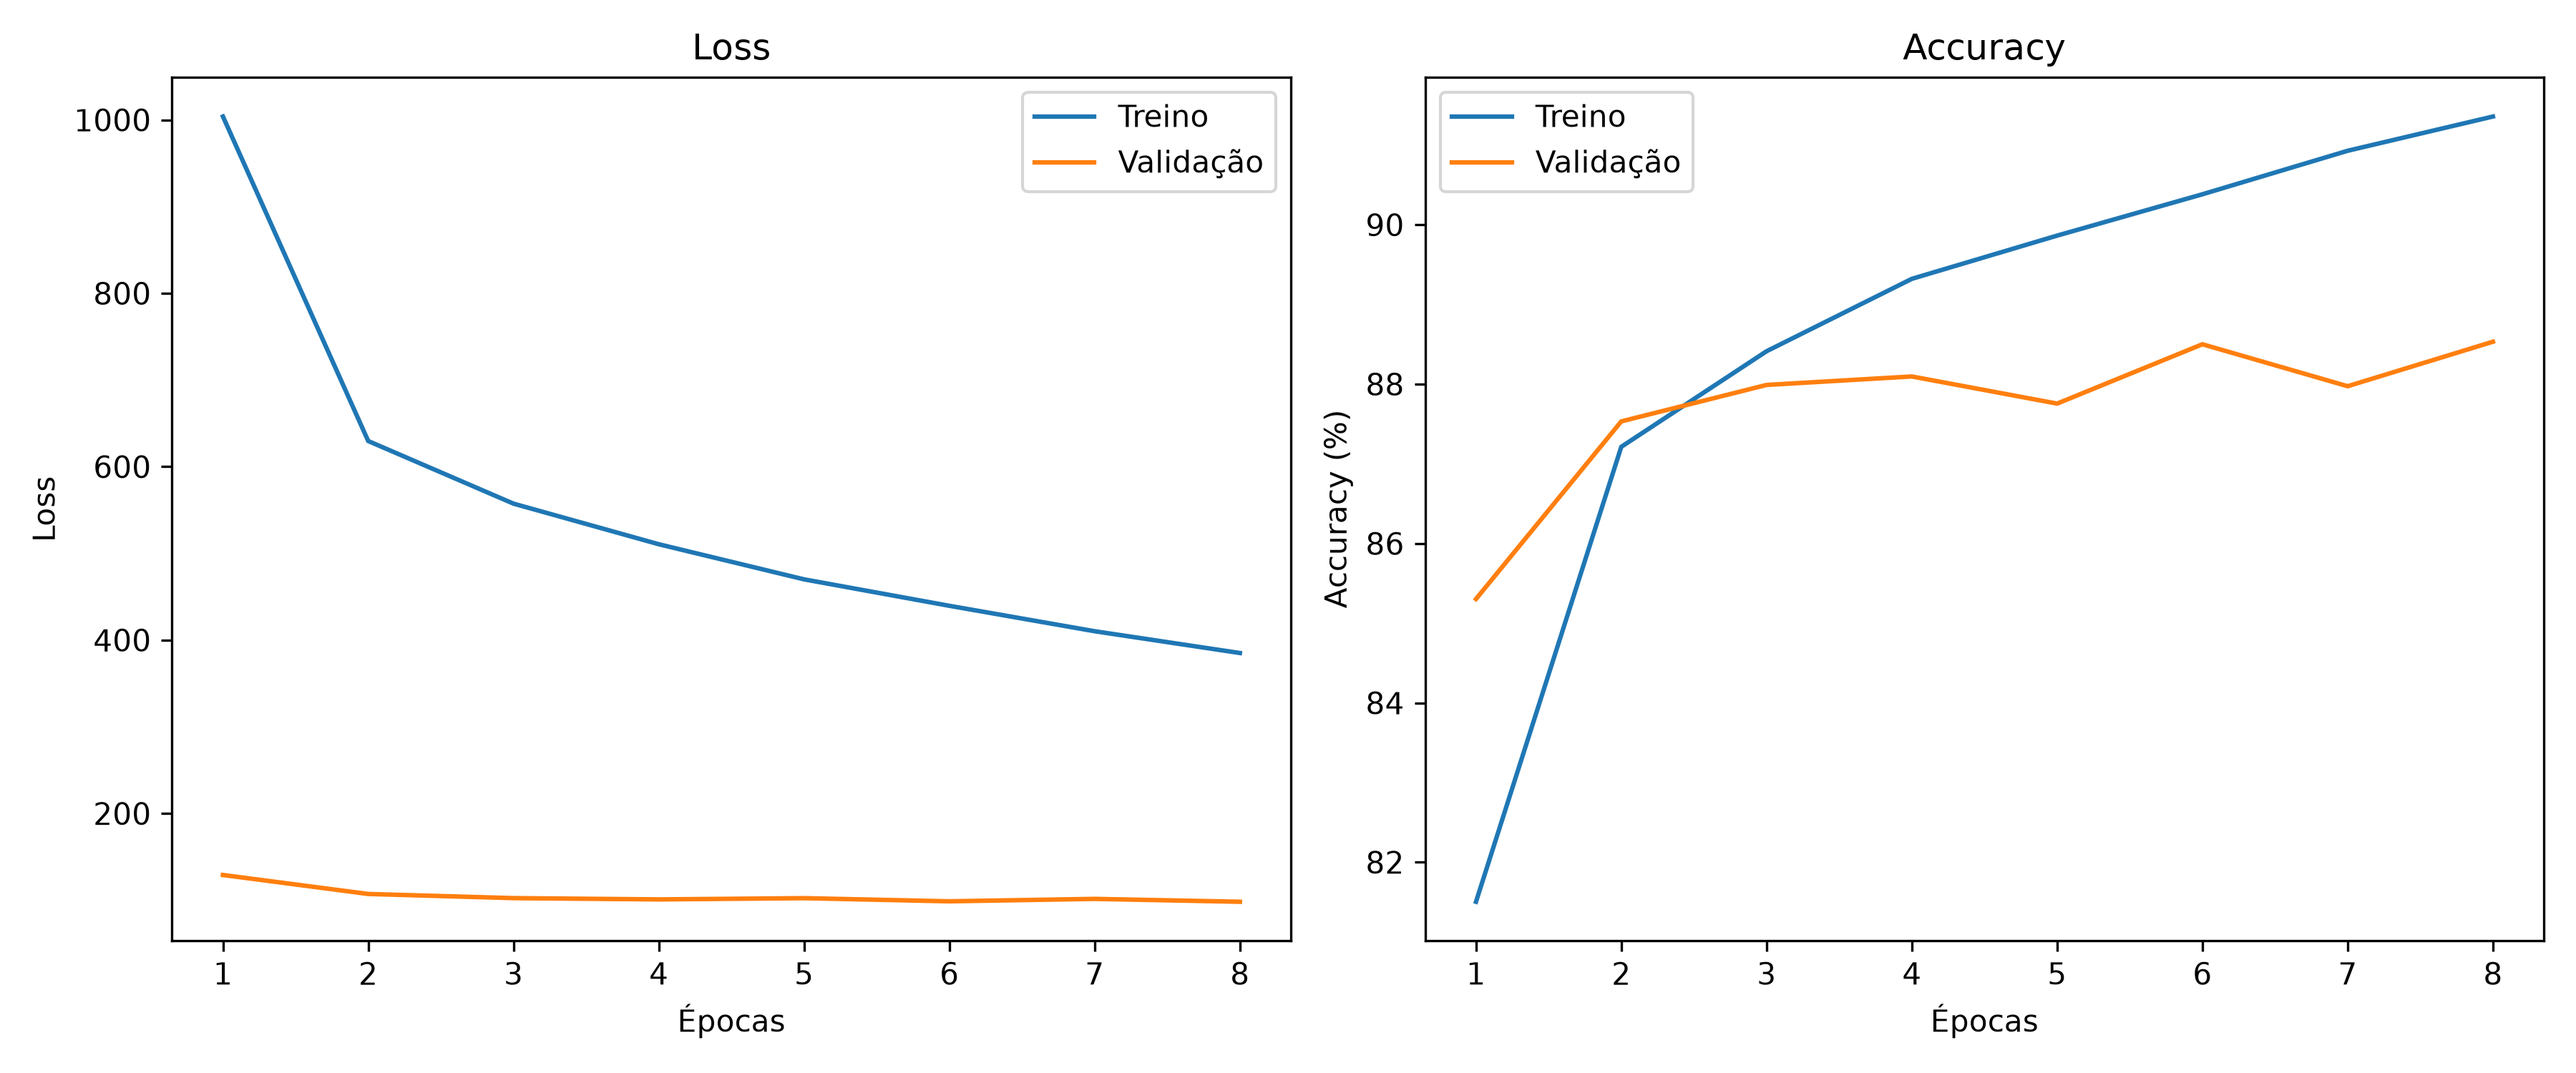
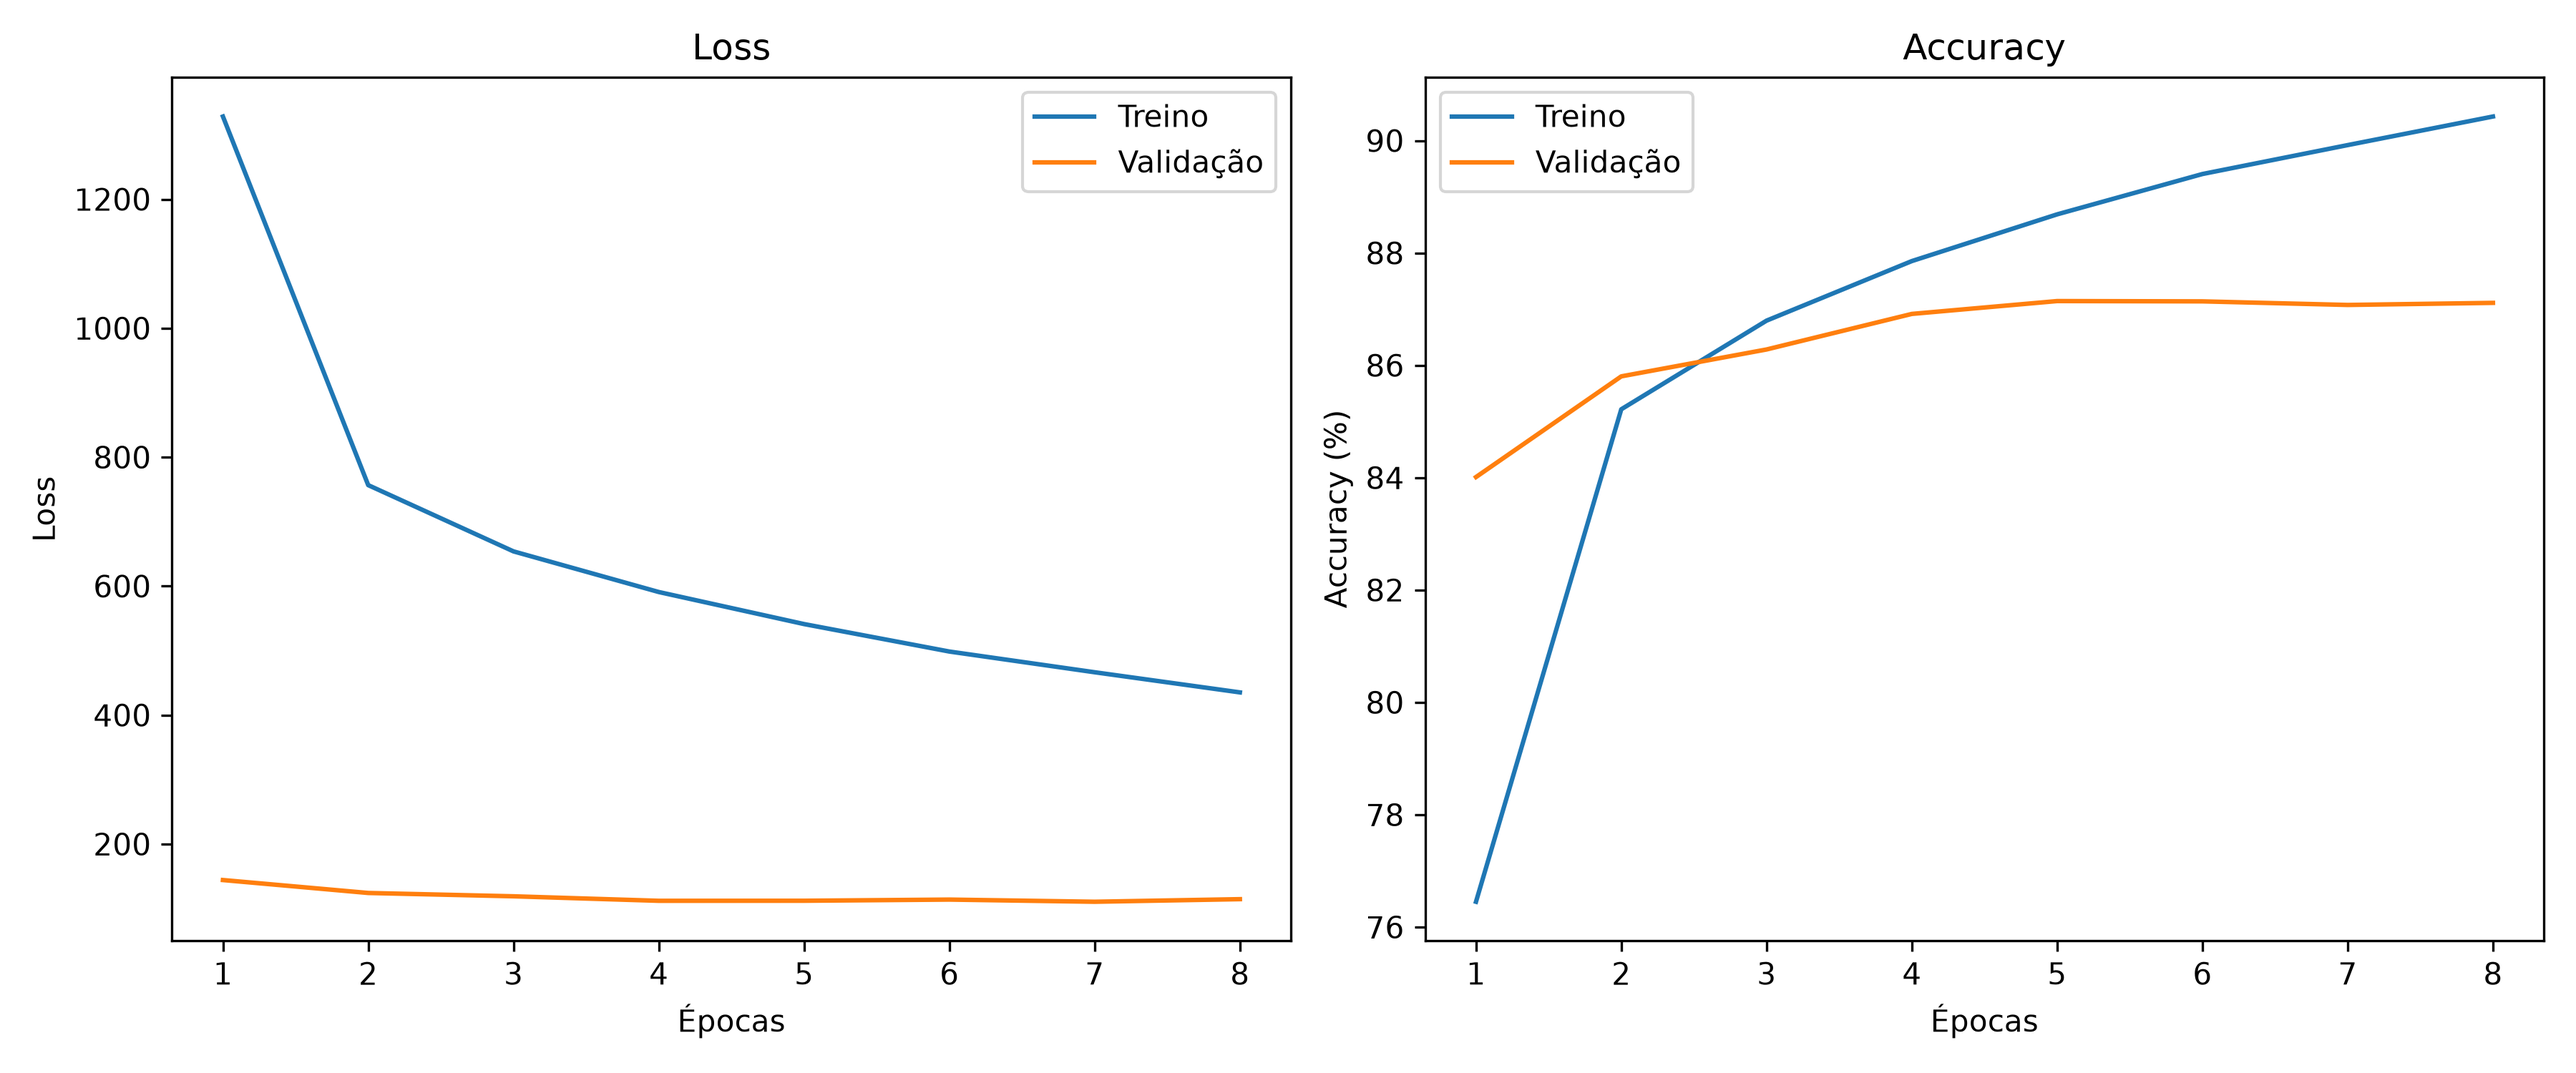
finalmente reconhecendo uma frase inteira 😠

diff --git a/ia_letras_e_alg/opencv/opencv_test.py b/ia_letras_e_alg/opencv/opencv_test.py
@@ -1,6 +1,23 @@
 import cv2
 import os
+import torch
+import sys
+import torchvision.transforms as transforms
 
+
+raiz_projeto = os.path.abspath(os.path.join(os.path.dirname(__file__), ".."))
+if raiz_projeto not in sys.path:
+    sys.path.append(raiz_projeto)
+
+from model import CNN
+model = CNN()
+
+model.load_state_dict(torch.load("best_model.pth"))
+
+model.eval()
+
+
+emnist_labels = "0123456789ABCDEFGHIJKLMNOPQRSTUVWXYZabdefghnqrt"
 
 # ---------------------------------------------------
 # 1) Ler imagem
@@ -50,11 +67,15 @@ print(f"Contornos encontrados: {len(contours)}")
 
 os.makedirs("opencv/caracteres", exist_ok=True)
 
+
+
 contador = 0
 
 # ---------------------------------------------------
 # 6) Percorrer cada contorno
 # ---------------------------------------------------
+
+letras = []
 
 for contour in contours:
 
@@ -109,14 +130,86 @@ for contour in contours:
     contador += 1
 
 
-    nome = f"opencv/caracteres/{contador:03d}.png"
+    letra_tensor = torch.from_numpy(letra_nova).float()
+    
+    letra_tensor = letra_tensor / 255.0
+    
+    letra_tensor = letra_tensor.unsqueeze(0).unsqueeze(0) 
 
-    cv2.imwrite(nome, letra_nova)
+    with torch.no_grad():
+        output = model(letra_tensor)  
+        predicted = output.argmax(dim=1).item()
+
+    # print(f"Imagem {contador:03d}.png previsto como:", emnist_labels[predicted])
+    # nome = f"opencv/caracteres/{contador:03d}.png"
+
+    # cv2.imwrite(nome, letra_nova)
+
+    letras.append({
+        "x" : x,
+        "y" : y,
+        "imagem" : letra_nova,
+        "previsao" : emnist_labels[predicted]
+    })
 
 print(f"Caracteres salvos: {contador}")
 
-def retornarContador():
-    return contador
+
+# ---------------------------------------------------
+# Ordenar as letras: Linha por Linha de forma Dinâmica
+# ---------------------------------------------------
+
+# 1. Primeiro, ordena tudo puramente de cima para baixo (pelo Y)
+letras.sort(key=lambda l: l["y"])
+
+linhas = []
+linha_atual = []
+
+for l in letras:
+    if not linha_atual:
+        linha_atual.append(l)
+    else:
+        # Pega o Y médio da linha atual para comparar
+        y_medio_linha = sum(item["y"] for item in linha_atual) / len(linha_atual)
+        
+        # Se a nova letra estiver verticalmente perto da média da linha atual,
+        # significa que ela pertence à mesma linha.
+        # Usamos uma tolerância baseada em 70% da altura do próprio caractere.
+        altura_referencia = l["imagem"].shape[0]  # geralmente 28 pixels
+        tolerancia = altura_referencia * 0.7 
+        
+        if abs(l["y"] - y_medio_linha) < tolerancia:
+            linha_atual.append(l)
+        else:
+            # Se mudou de linha, fecha a linha atual e começa uma nova
+            linhas.append(linha_atual)
+            linha_atual = [l]
+
+if linha_atual:
+    linhas.append(linha_atual)
+
+letras_ordenadas_lista = []
+contador_ordenado = 0
+
+for i, linha in enumerate(linhas):
+    linha.sort(key=lambda l: l["x"])
+    
+    for l in linha:
+        contador_ordenado += 1
+        letras_ordenadas_lista.append(l["previsao"])
+        
+
+# ---------------------------------------------------
+# Exibir os resultados corrigidos
+# ---------------------------------------------------
+print("Lista de letras na ordem certa:", letras_ordenadas_lista)
+
+texto_completo = "".join(letras_ordenadas_lista)
+print("Texto detectado completo:", texto_completo)
+
+
+
+
 # ---------------------------------------------------
 # 7) Mostrar resultado
 # ---------------------------------------------------
